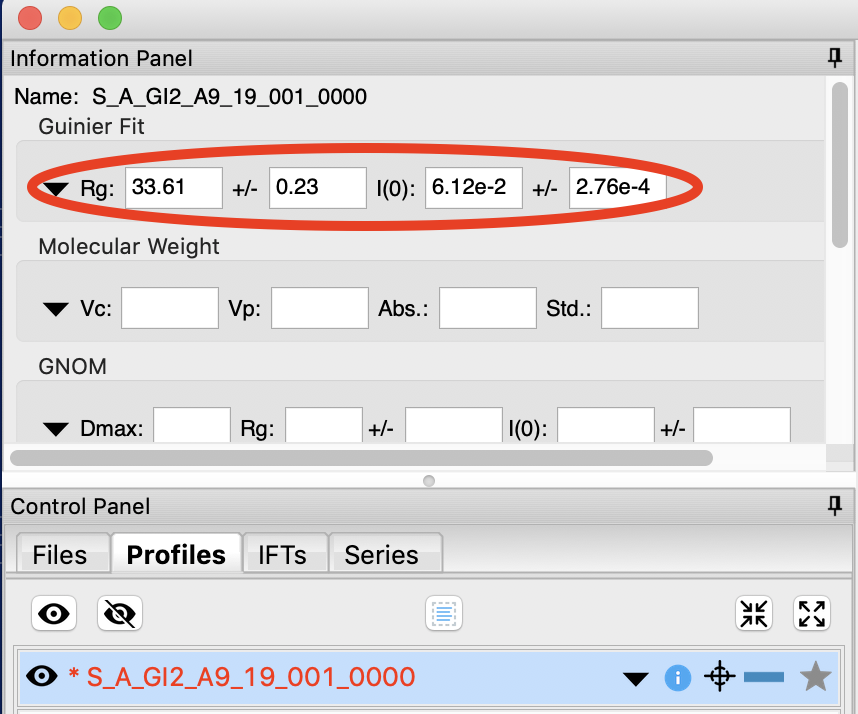
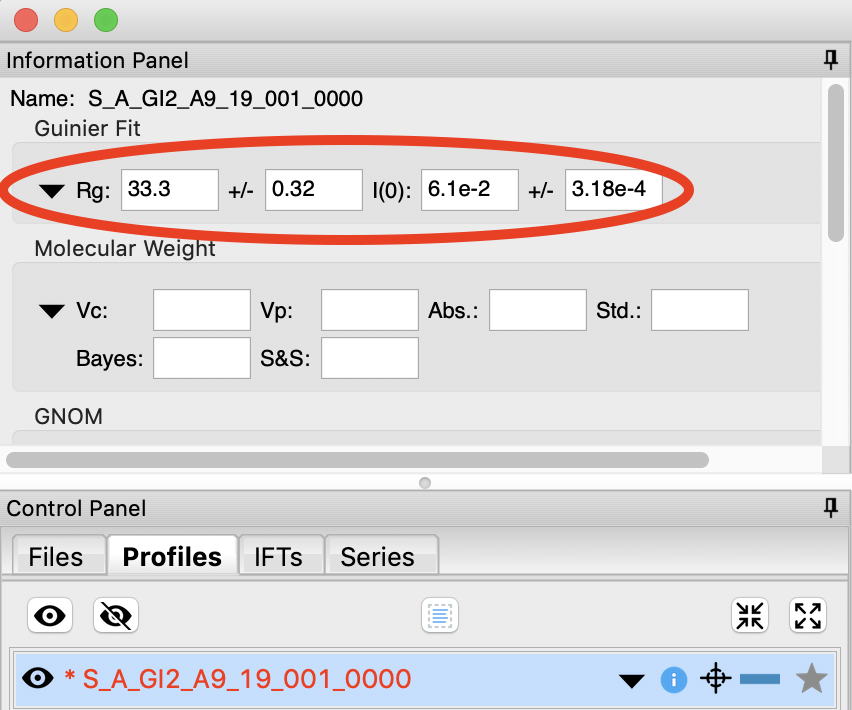
Updated the info panel image in the guinier tutorial.

Changed region(s): [[0.0, 0.0, 1.0, 1.0], [0.3052, 0.4958, 0.3662, 0.5268]]

diff --git a/bioxtasraw/RAW.py b/bioxtasraw/RAW.py
@@ -6688,7 +6688,7 @@ class DirCtrlPanel(wx.Panel):
 
         dir_label_sizer = wx.BoxSizer()
 
-        self.dir_label = wx.TextCtrl(self, -1, "/" , size = (30,16), style = wx.TE_PROCESS_ENTER)
+        self.dir_label = wx.TextCtrl(self, size = (30,16), style = wx.TE_PROCESS_ENTER)
         self.dir_label.Bind(wx.EVT_KILL_FOCUS, self._onEnterOrFocusShiftInDirLabel)
         self.dir_label.Bind(wx.EVT_TEXT_ENTER, self._onEnterOrFocusShiftInDirLabel)
 
